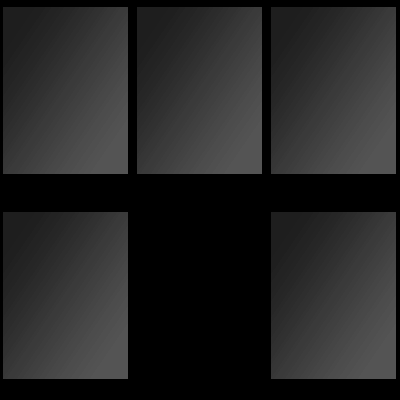
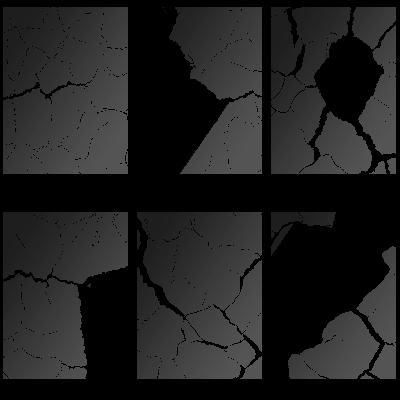
Building Atlas

diff --git a/Doomsday/Doomsday/HelloWorldLayer.mm b/Doomsday/Doomsday/HelloWorldLayer.mm
@@ -104,6 +104,30 @@ enum {
             [uiFrames addObject:frame];
         }
 
+        //Batching building blocks
+        int numberBuildingFrames = 0;
+        buildingAtlasNode = [CCSpriteBatchNode batchNodeWithFile:@"buildingatlas.png"];
+        [self addChild:buildingAtlasNode];
+        [[CCSpriteFrameCache sharedSpriteFrameCache] addSpriteFramesWithFile:@"buildingatlas.plist"];
+
+        NSMutableArray *buildingFrames = [NSMutableArray array];
+        NSMutableArray *buildingFilenames = [NSMutableArray array];
+        for (int ii = 1; ii <= 3; ii++) {
+            NSString *file = [NSString stringWithFormat:@"buildingpiece-%d-off.png", ii];
+            
+            [buildingFilenames addObject:file];
+            numberBuildingFrames++;
+            file = [NSString stringWithFormat:@"buildingpiece-%d.png", ii];
+            
+            [buildingFilenames addObject:file];
+            numberBuildingFrames++;
+
+        }
+        
+        for (int i = 0; i < numberBuildingFrames; i++) {
+            CCSpriteFrame *frame = [[CCSpriteFrameCache sharedSpriteFrameCache] spriteFrameByName:buildingFilenames[i]];
+            [buildingFrames addObject:frame];
+        }
 
 		
 #if 1

diff --git a/Doomsday/Doomsday/Debris.mm b/Doomsday/Doomsday/Debris.mm
@@ -19,9 +19,12 @@
     NSLog(@"making debris...");
     float s =  arc4random_uniform(100);
     if (s < 20) {spriteVersion = 2;}
+    if (s > 80) {spriteVersion = 3;}
     else {spriteVersion = 1;}
     
-    if (self = [super initWithFile:[NSString stringWithFormat:@"buildingpiece-%d.png", spriteVersion]]) {
+    NSString* frameName = [NSString stringWithFormat:@"buildingpiece-%d.png", spriteVersion];
+    
+    if (self = [super initWithSpriteFrame:[[CCSpriteFrameCache sharedSpriteFrameCache] spriteFrameByName:frameName]]) {
         
         [self setScale:0.3];
         [self setPosition:ccp(point.x, point.y)];
@@ -68,8 +71,8 @@
         f.maskBits = 0x0013;
         _fixture->SetFilterData(f);
     }
-[self setTexture:[
-                  [CCSprite spriteWithFile:[NSString stringWithFormat:@"buildingpiece-%d-off.png", spriteVersion]] texture]];
+    NSString *frameName = [NSString stringWithFormat:@"buildingpiece-%d-off.png", spriteVersion];
+    [self setDisplayFrame:[[CCSpriteFrameCache sharedSpriteFrameCache] spriteFrameByName:frameName]];
 }
 
 -(b2Shape*) shape {

diff --git a/Doomsday/Doomsday/GameplayScene.mm b/Doomsday/Doomsday/GameplayScene.mm
@@ -122,12 +122,12 @@ bool musicPlaying = false;
     
     
     CCSprite* weaponModePanel = [CCSprite spriteWithFile:@"activeweaponbar.png"];
-    [weaponModePanel setScale:0.5];
-    weaponModePanel.position = ccp(size.width/2, 64);
+    [weaponModePanel setScale:0.4];
+    weaponModePanel.position = ccp(size.width/2 - 120, 24);
     _label.position = ccp(weaponModePanel.contentSize.width/2, weaponModePanel.contentSize.height/2);
 
     [weaponModePanel addChild:_label];
-    [uiLayer addChild:weaponModePanel];
+    [_dash addChild:weaponModePanel];
 
     
     //killcounter

diff --git a/Doomsday/Doomsday/HelloWorldLayer.h b/Doomsday/Doomsday/HelloWorldLayer.h
@@ -29,6 +29,7 @@
 	GLESDebugDraw *m_debugDraw;		// strong ref
     CCSpriteBatchNode *uiAtlasNode;
     CCSpriteBatchNode *spriteAtlasNode;
+    CCSpriteBatchNode *buildingAtlasNode;
     UILayer *uiLayer;
     UILayer *levelSelectLayer;
     CGSize size;
